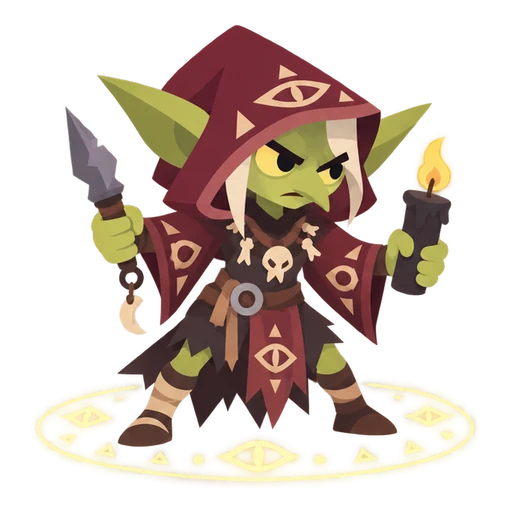
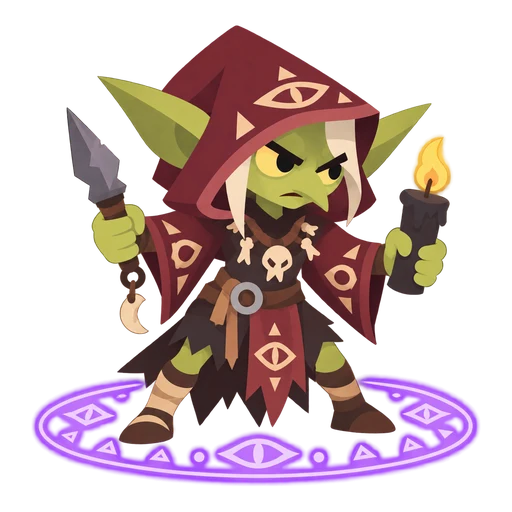
Cartes : nouvelles images de la Vautourière et de la Ritualiste
Les deux illustrations refaites par Keko, détourées et recadrées à 5 % de
marge comme les autres ; le fichier de la Vautourière prend son nom.

Claude-Session: https://claude.ai/code/session_013vGhoeZisqBkQNCj1MreFc

diff --git a/src/render/texture-carte.ts b/src/render/texture-carte.ts
@@ -1891,7 +1891,7 @@ export const PERSONNAGES_VITRINE = [
   'cartes/orc/epiques/06-tambour-de-guerre.webp',
   'cartes/gobelin/epiques/05-illusionniste.webp',
   'cartes/orc/epiques/04-sorciere-du-sang.webp',
-  'cartes/gobelin/rares/03-fauconniere.webp',
+  'cartes/gobelin/rares/03-vautouriere.webp',
   'cartes/orc/rares/04-lutteur-d-ours.webp',
 ] as const
 
